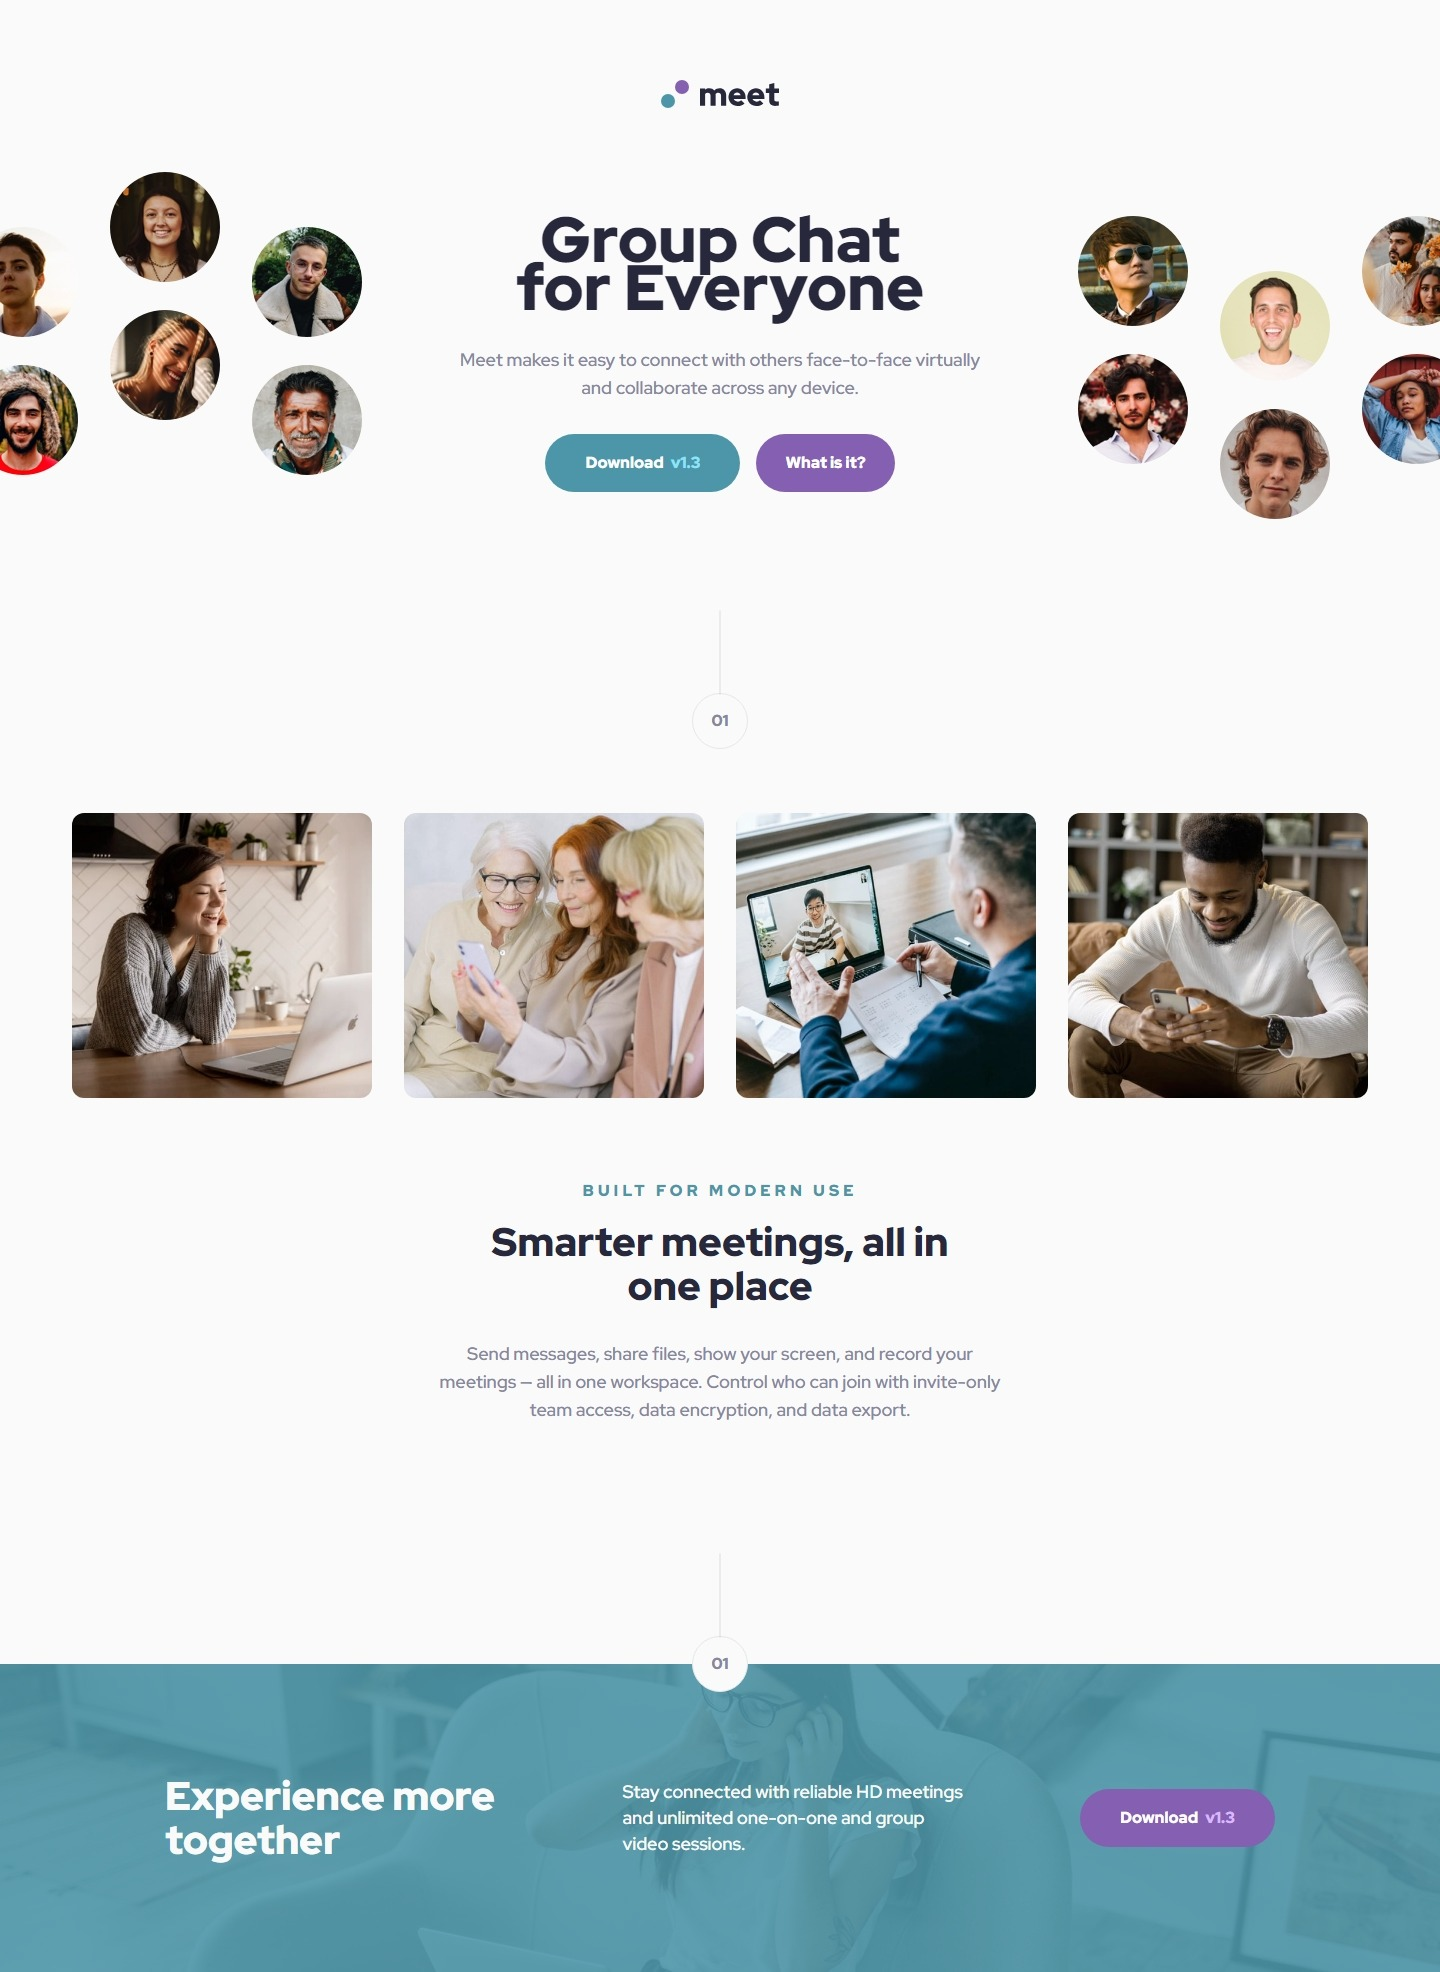
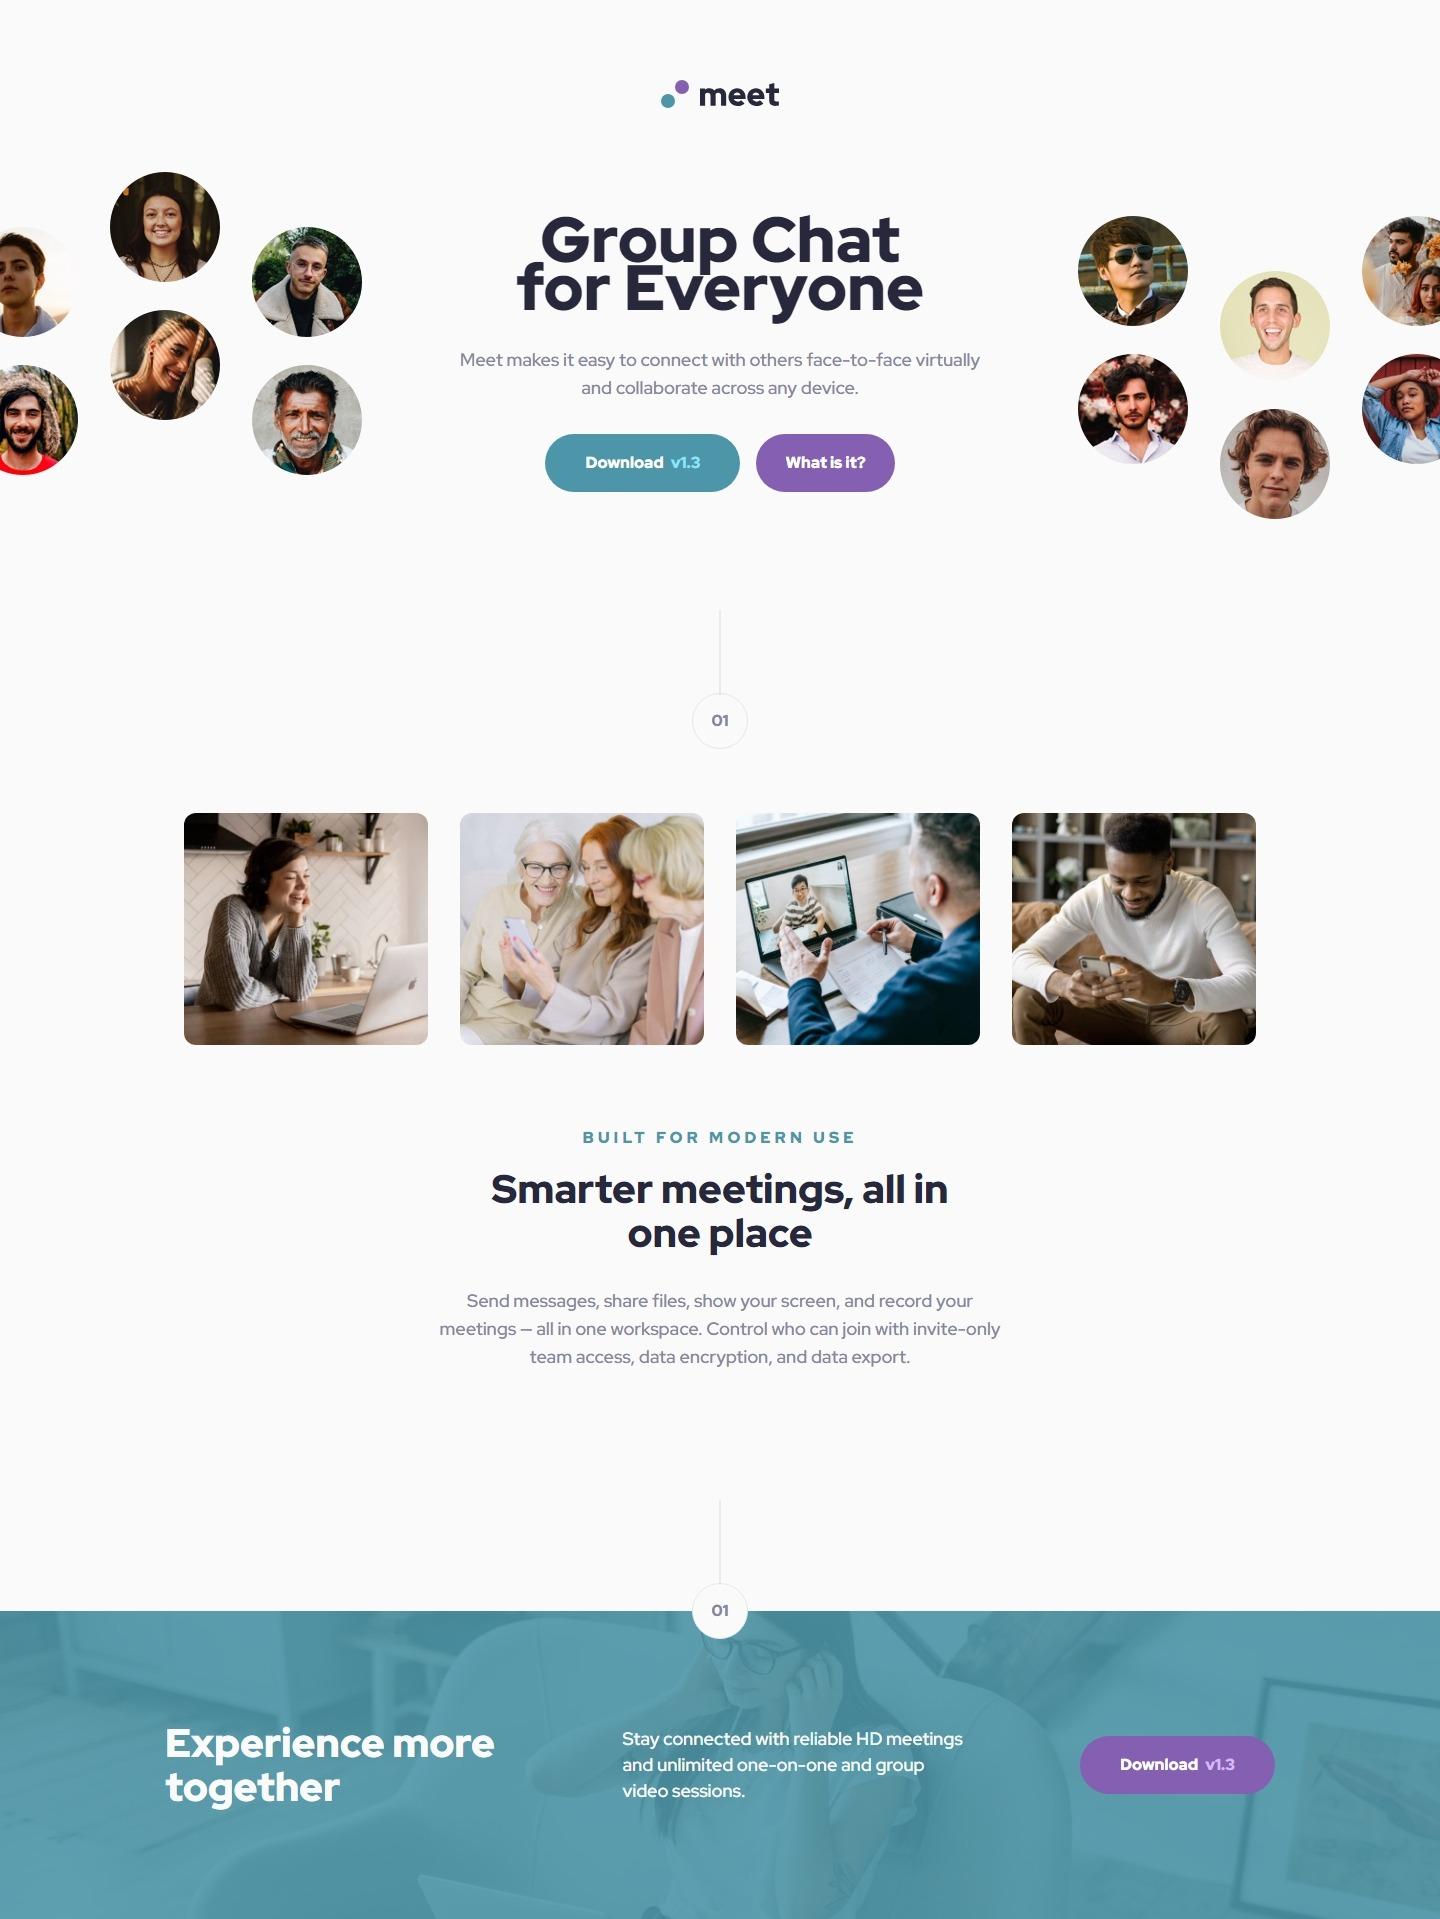
update

diff --git a/src/output.css b/src/output.css
@@ -568,6 +568,10 @@ html {
   position: relative;
 }
 
+.-bottom-\[28px\]{
+  bottom: -28px;
+}
+
 .-left-8{
   left: -2rem;
 }
@@ -590,10 +594,6 @@ html {
 
 .top-0{
   top: 0px;
-}
-
-.-bottom-\[28px\]{
-  bottom: -28px;
 }
 
 .z-10{
@@ -633,10 +633,6 @@ html {
   margin-top: auto;
 }
 
-.inline-block{
-  display: inline-block;
-}
-
 .flex{
   display: flex;
 }
@@ -662,14 +658,6 @@ html {
   height: 100%;
 }
 
-.h-auto{
-  height: auto;
-}
-
-.min-h-\[856px\]{
-  min-height: 856px;
-}
-
 .w-\[84px\]{
   width: 84px;
 }
@@ -688,10 +676,6 @@ html {
 
 .max-w-\[540px\]{
   max-width: 540px;
-}
-
-.max-w-\[1110px\]{
-  max-width: 1110px;
 }
 
 .rotate-90{
@@ -763,22 +747,6 @@ html {
   background-color: rgb(250 250 250 / var(--tw-bg-opacity));
 }
 
-.bg-mobile-footer{
-  background-image: url("../assets/mobile/image-footer.jpg");
-}
-
-.bg-cover{
-  background-size: cover;
-}
-
-.bg-center{
-  background-position: center;
-}
-
-.bg-no-repeat{
-  background-repeat: no-repeat;
-}
-
 .object-cover{
   -o-object-fit: cover;
      object-fit: cover;
@@ -808,16 +776,8 @@ html {
   padding-bottom: 148px;
 }
 
-.pb-\[72px\]{
-  padding-bottom: 72px;
-}
-
 .pl-1{
   padding-left: 0.25rem;
-}
-
-.pt-\[92px\]{
-  padding-top: 92px;
 }
 
 .text-center{
@@ -913,22 +873,6 @@ html {
   opacity: 0.1045;
 }
 
-.mix-blend-normal{
-  mix-blend-mode: normal;
-}
-
-.mix-blend-multiply{
-  mix-blend-mode: multiply;
-}
-
-.mix-blend-screen{
-  mix-blend-mode: screen;
-}
-
-.mix-blend-overlay{
-  mix-blend-mode: overlay;
-}
-
 .transition-colors{
   transition-property: color, background-color, border-color, text-decoration-color, fill, stroke;
   transition-timing-function: cubic-bezier(0.4, 0, 0.2, 1);
@@ -951,6 +895,15 @@ html {
     margin-right: 3rem;
   }
 
+  .md\:mx-10{
+    margin-left: 2.5rem;
+    margin-right: 2.5rem;
+  }
+
+  .md\:mb-10{
+    margin-bottom: 2.5rem;
+  }
+
   .md\:mb-16{
     margin-bottom: 4rem;
   }
@@ -965,10 +918,6 @@ html {
 
   .md\:mb-\[192px\]{
     margin-bottom: 192px;
-  }
-
-  .md\:mb-10{
-    margin-bottom: 2.5rem;
   }
 
   .md\:min-w-\[820px\]{
@@ -1005,14 +954,14 @@ html {
     padding-right: 0px;
   }
 
+  .md\:px-10{
+    padding-left: 2.5rem;
+    padding-right: 2.5rem;
+  }
+
   .md\:px-16{
     padding-left: 4rem;
     padding-right: 4rem;
-  }
-
-  .md\:px-24{
-    padding-left: 6rem;
-    padding-right: 6rem;
   }
 
   .md\:px-\[97px\]{
@@ -1020,32 +969,8 @@ html {
     padding-right: 97px;
   }
 
-  .md\:px-4{
-    padding-left: 1rem;
-    padding-right: 1rem;
-  }
-
-  .md\:px-6{
-    padding-left: 1.5rem;
-    padding-right: 1.5rem;
-  }
-
-  .md\:px-8{
-    padding-left: 2rem;
-    padding-right: 2rem;
-  }
-
-  .md\:px-10{
-    padding-left: 2.5rem;
-    padding-right: 2.5rem;
-  }
-
   .md\:pb-\[164px\]{
     padding-bottom: 164px;
-  }
-
-  .md\:pb-\[66px\]{
-    padding-bottom: 66px;
   }
 
   .md\:text-5xl{
@@ -1072,6 +997,11 @@ html {
     margin-right: auto;
   }
 
+  .xl\:mx-40{
+    margin-left: 10rem;
+    margin-right: 10rem;
+  }
+
   .xl\:mb-0{
     margin-bottom: 0px;
   }
@@ -1096,14 +1026,6 @@ html {
     margin-top: 5rem;
   }
 
-  .xl\:mr-\[125px\]{
-    margin-right: 125px;
-  }
-
-  .xl\:mr-\[92px\]{
-    margin-right: 92px;
-  }
-
   .xl\:block{
     display: block;
   }
@@ -1112,20 +1034,20 @@ html {
     display: none;
   }
 
-  .xl\:max-w-\[445px\]{
-    max-width: 445px;
-  }
-
-  .xl\:max-w-\[540px\]{
-    max-width: 540px;
-  }
-
   .xl\:max-w-\[1110px\]{
     max-width: 1110px;
   }
 
   .xl\:max-w-\[350px\]{
     max-width: 350px;
+  }
+
+  .xl\:max-w-\[445px\]{
+    max-width: 445px;
+  }
+
+  .xl\:max-w-\[540px\]{
+    max-width: 540px;
   }
 
   .xl\:flex-row{
@@ -1141,31 +1063,18 @@ html {
          column-gap: 2rem;
   }
 
-  .xl\:px-12{
-    padding-left: 3rem;
-    padding-right: 3rem;
-  }
-
-  .xl\:px-\[165px\]{
-    padding-left: 165px;
-    padding-right: 165px;
-  }
-
   .xl\:px-0{
     padding-left: 0px;
     padding-right: 0px;
   }
 
-  .xl\:pb-\[102px\]{
-    padding-bottom: 102px;
+  .xl\:px-12{
+    padding-left: 3rem;
+    padding-right: 3rem;
   }
 
   .xl\:pb-\[201px\]{
     padding-bottom: 201px;
-  }
-
-  .xl\:pt-\[116px\]{
-    padding-top: 116px;
   }
 
   .xl\:text-left{

diff --git a/index.html b/index.html
@@ -89,7 +89,7 @@
 
     <main class="px-6">
       <div
-        class="mb-16 grid grid-cols-2 gap-6 md:mx-12 md:grid-cols-4 md:gap-x-3 md:gap-y-0 xl:mb-20 xl:gap-x-8"
+        class="mb-16 grid grid-cols-2 gap-6 md:mx-10 md:grid-cols-4 md:gap-x-3 md:gap-y-0 xl:mx-40 xl:mb-20 xl:gap-x-8"
       >
         <img
           src="./assets/desktop/image-woman-in-videocall.jpg"
